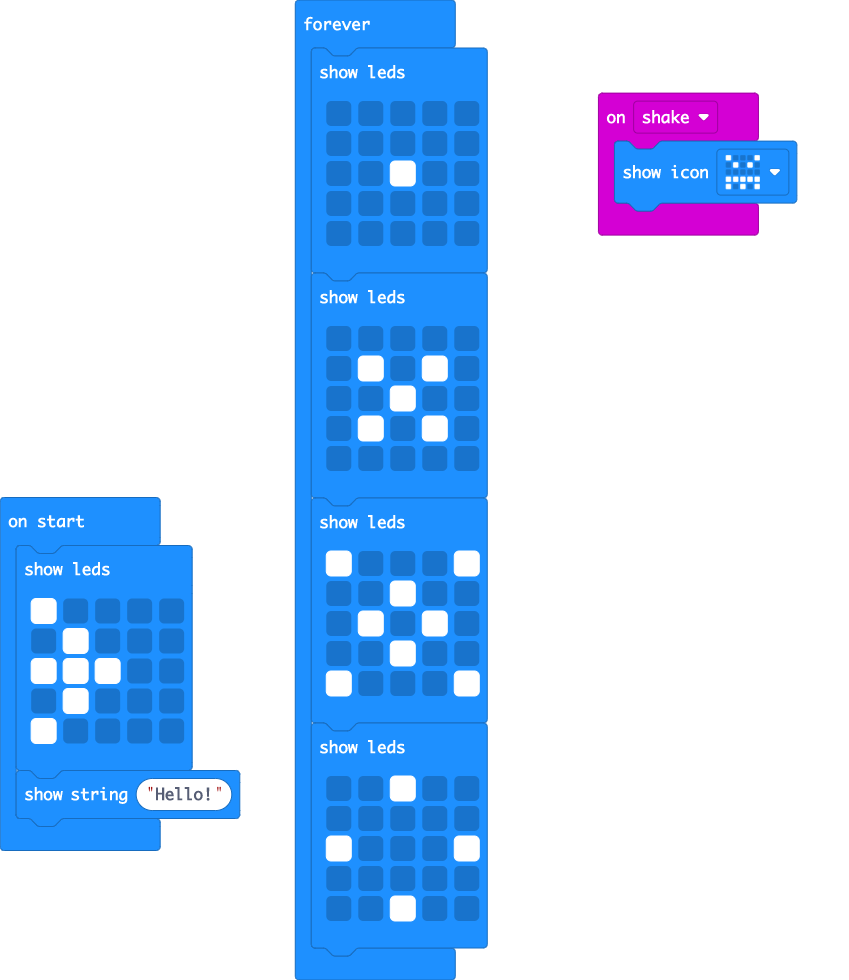
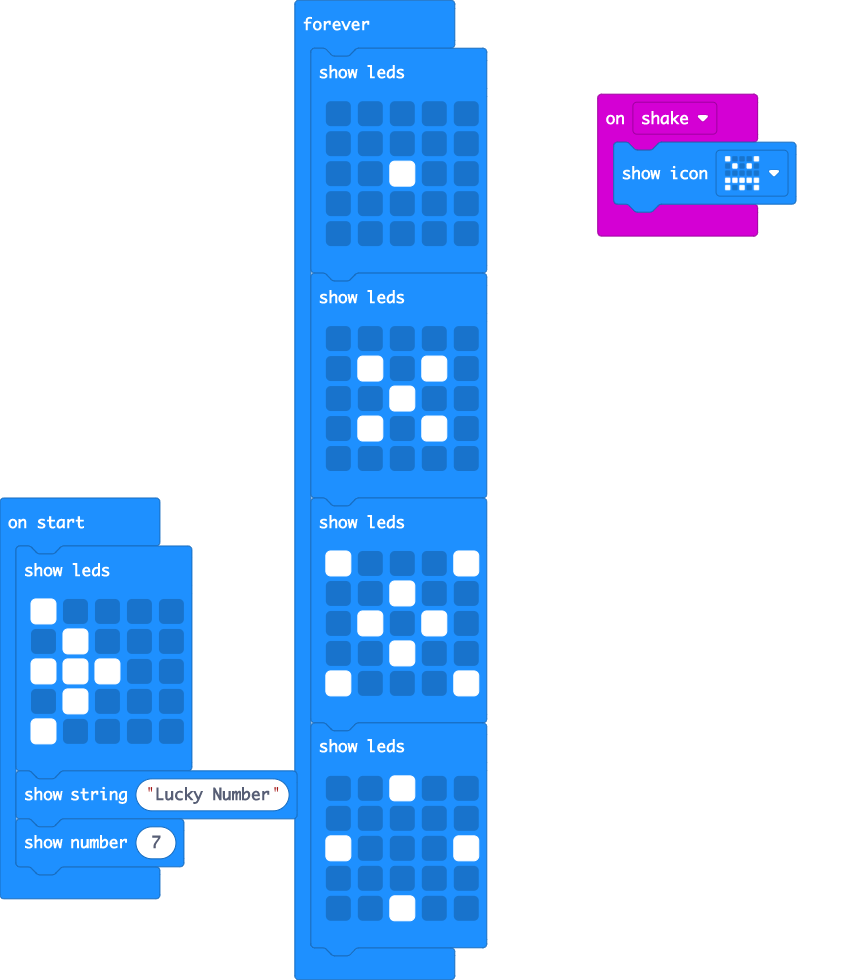
Lucky Number 7

diff --git a/main.ts b/main.ts
@@ -8,7 +8,8 @@ basic.showLeds(`
     . # . . .
     # . . . .
     `)
-basic.showString("Hello!")
+basic.showString("Lucky Number")
+basic.showNumber(7)
 basic.forever(function () {
     basic.showLeds(`
         . . . . .
